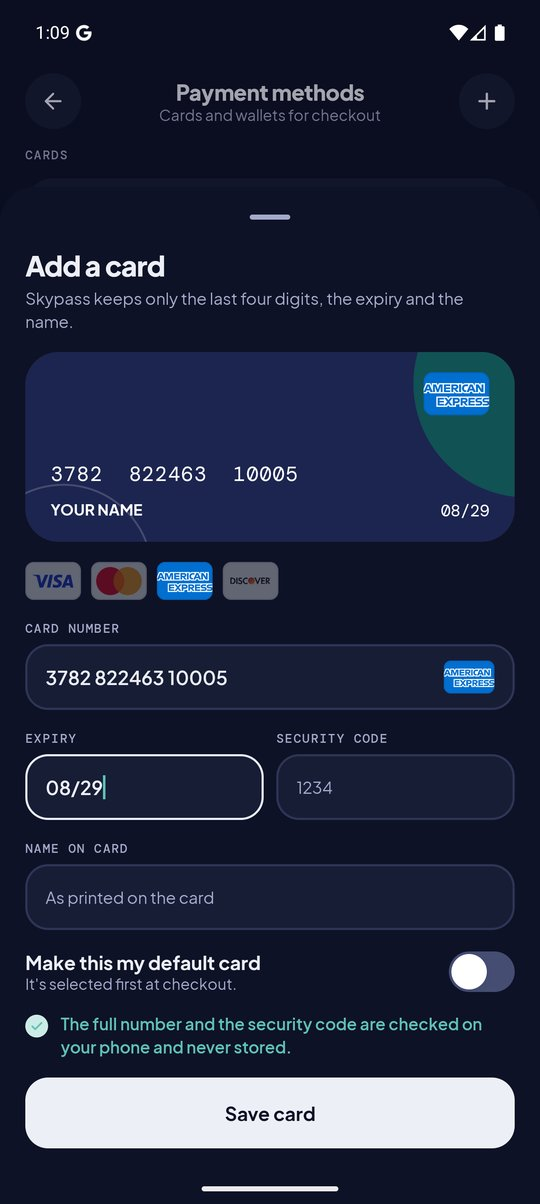
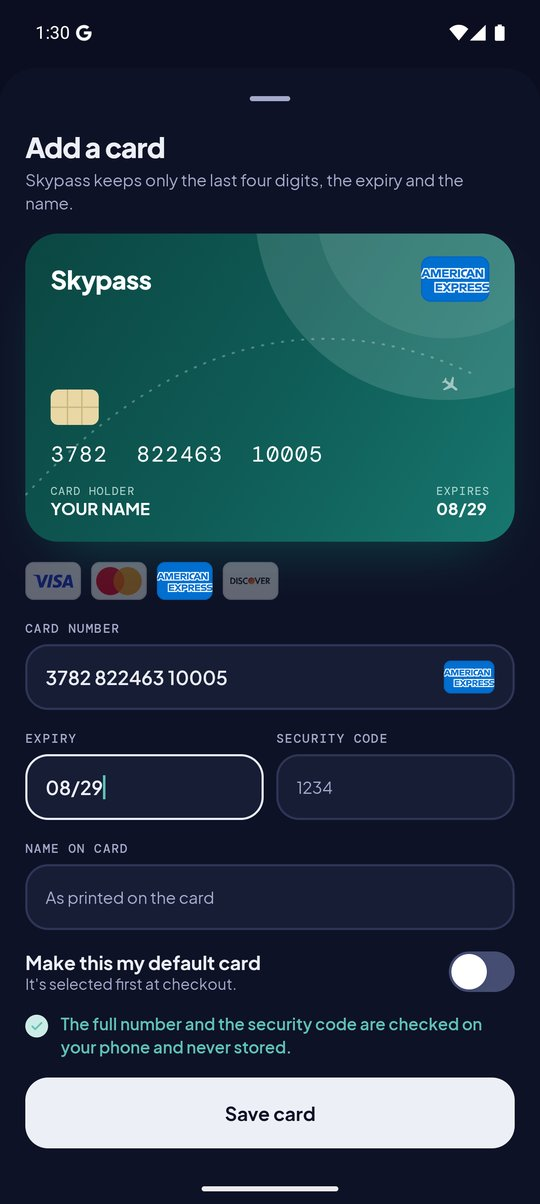
Card design: a Skypass card for Add a card and checkout
The card is now in Skypass colours: a teal gradient with the board's dotted
flight arc and plane, a mint sun off the top edge, a gold chip, the Skypass
wordmark in the top-left corner and the card network's mark in the top-right.
One shared SkypassCardFace (:core:ui) fills in as you type on Add a card and
flips between methods at checkout.

diff --git a/core/ui/src/main/kotlin/com/skypass/core/ui/CardFace.kt b/core/ui/src/main/kotlin/com/skypass/core/ui/CardFace.kt
@@ -1,0 +1,185 @@
+package com.skypass.core.ui
+
+import androidx.compose.animation.AnimatedContent
+import androidx.compose.animation.core.tween
+import androidx.compose.animation.fadeIn
+import androidx.compose.animation.fadeOut
+import androidx.compose.animation.scaleIn
+import androidx.compose.animation.togetherWith
+import androidx.compose.foundation.background
+import androidx.compose.foundation.layout.Arrangement
+import androidx.compose.foundation.layout.Box
+import androidx.compose.foundation.layout.Column
+import androidx.compose.foundation.layout.Row
+import androidx.compose.foundation.layout.Spacer
+import androidx.compose.foundation.layout.aspectRatio
+import androidx.compose.foundation.layout.fillMaxWidth
+import androidx.compose.foundation.layout.height
+import androidx.compose.foundation.layout.padding
+import androidx.compose.foundation.layout.size
+import androidx.compose.foundation.layout.width
+import androidx.compose.foundation.shape.RoundedCornerShape
+import androidx.compose.material3.Icon
+import androidx.compose.material3.Text
+import androidx.compose.runtime.Composable
+import androidx.compose.ui.Alignment
+import androidx.compose.ui.Modifier
+import androidx.compose.ui.draw.clip
+import androidx.compose.ui.draw.drawBehind
+import androidx.compose.ui.draw.rotate
+import androidx.compose.ui.geometry.Offset
+import androidx.compose.ui.graphics.Brush
+import androidx.compose.ui.graphics.Color
+import androidx.compose.ui.graphics.Path
+import androidx.compose.ui.graphics.PathEffect
+import androidx.compose.ui.graphics.StrokeCap
+import androidx.compose.ui.graphics.drawscope.Stroke
+import androidx.compose.ui.res.stringResource
+import androidx.compose.ui.semantics.clearAndSetSemantics
+import androidx.compose.ui.semantics.contentDescription
+import androidx.compose.ui.text.TextStyle
+import androidx.compose.ui.text.font.FontWeight
+import androidx.compose.ui.unit.dp
+import androidx.compose.ui.unit.em
+import androidx.compose.ui.unit.sp
+import com.skypass.core.designsystem.component.PaymentLogo
+import com.skypass.core.designsystem.component.Wordmark
+import com.skypass.core.designsystem.icon.SkypassIcons
+import com.skypass.core.designsystem.theme.DmMono
+import com.skypass.core.designsystem.theme.JakartaSans
+import com.skypass.core.designsystem.theme.Shapes
+import com.skypass.core.designsystem.theme.SoftShadow
+import com.skypass.core.designsystem.theme.softShadow
+import com.skypass.core.model.PaymentMethodType
+
+private val TealDeep = Color(0xFF0B4642)
+private val Teal = Color(0xFF0F5B56)
+private val TealLight = Color(0xFF17776F)
+private val Mint = Color(0xFFCDEBE6)
+private val ChipGold = Color(0xFFE9D8A6)
+private val ChipLine = Color(0xFFC9B47A)
+
+/**
+ * A payment card in Skypass colours: the brand's teal with the board's dotted flight arc and plane
+ * crossing it, the Skypass wordmark in one corner and the card network's mark in the other.
+ * Used on the Add a card form (filling in as you type) and at checkout.
+ *
+ * [network] is null until the first digits say which network it is.
+ */
+@Composable
+fun SkypassCardFace(
+    network: PaymentMethodType?,
+    number: String,
+    holder: String,
+    expiry: String,
+    modifier: Modifier = Modifier,
+) {
+    val holderLabel = stringResource(R.string.card_face_holder)
+    val expiresLabel = stringResource(R.string.card_face_expires)
+    Box(
+        modifier
+            .fillMaxWidth()
+            .aspectRatio(CARD_RATIO)
+            .softShadow(SoftShadow.Brand, Shapes.hero)
+            .clip(Shapes.hero)
+            .background(Brush.linearGradient(listOf(TealDeep, Teal, TealLight)))
+            .drawBehind {
+                // A pale mint sun rising off the top edge.
+                drawCircle(Mint.copy(alpha = 0.16f), radius = size.height * 0.62f, center = Offset(size.width * 0.86f, -size.height * 0.08f))
+                drawCircle(Mint.copy(alpha = 0.10f), radius = size.height * 0.42f, center = Offset(size.width * 0.86f, -size.height * 0.08f))
+                // The board's dotted flight arc, from the bottom-left corner up towards the logo.
+                val arc = Path().apply {
+                    moveTo(-size.width * 0.04f, size.height * 0.92f)
+                    quadraticTo(size.width * 0.42f, size.height * 0.08f, size.width * 0.92f, size.height * 0.46f)
+                }
+                drawPath(
+                    arc,
+                    color = Color.White.copy(alpha = 0.28f),
+                    style = Stroke(
+                        width = 1.6.dp.toPx(),
+                        cap = StrokeCap.Round,
+                        pathEffect = PathEffect.dashPathEffect(floatArrayOf(1.dp.toPx(), 7.dp.toPx())),
+                    ),
+                )
+            }
+            .clearAndSetSemantics {
+                contentDescription = listOfNotNull(network?.name, number.takeLast(4).takeIf { it.all(Char::isDigit) }, holder, expiry).joinToString(", ")
+            }
+            .padding(horizontal = 20.dp, vertical = 18.dp),
+    ) {
+        // Plane at the end of the arc, pointing along it.
+        Icon(
+            SkypassIcons.Plane,
+            contentDescription = null,
+            tint = Color.White.copy(alpha = 0.55f),
+            modifier = Modifier
+                .align(BiasAlignment)
+                .size(16.dp)
+                .rotate(PLANE_ANGLE),
+        )
+        Row(Modifier.fillMaxWidth().align(Alignment.TopStart), verticalAlignment = Alignment.CenterVertically) {
+            Wordmark(size = 20, color = Color.White)
+            Spacer(Modifier.weight(1f))
+            AnimatedContent(
+                targetState = network,
+                transitionSpec = { (fadeIn(tween(200)) + scaleIn(initialScale = 0.85f)) togetherWith fadeOut(tween(120)) },
+                label = "cardNetwork",
+            ) { n ->
+                if (n != null) PaymentLogo(n, width = 54.dp, height = 36.dp) else Spacer(Modifier.height(36.dp))
+            }
+        }
+        Column(Modifier.align(Alignment.BottomStart).fillMaxWidth(), verticalArrangement = Arrangement.spacedBy(12.dp)) {
+            Chip()
+            Text(
+                number,
+                style = TextStyle(fontFamily = DmMono, fontSize = 17.sp, letterSpacing = 0.06.em),
+                color = Color.White,
+                maxLines = 1,
+            )
+            Row(verticalAlignment = Alignment.Bottom) {
+                CardField(holderLabel, holder.uppercase(), Modifier.weight(1f))
+                CardField(expiresLabel, expiry)
+            }
+        }
+    }
+}
+
+/** The gold contact chip, with its etched lines. */
+@Composable
+private fun Chip() {
+    Box(
+        Modifier
+            .width(38.dp)
+            .height(28.dp)
+            .clip(RoundedCornerShape(6.dp))
+            .background(ChipGold)
+            .drawBehind {
+                val stroke = 1.dp.toPx()
+                drawLine(ChipLine, Offset(0f, size.height / 2), Offset(size.width, size.height / 2), stroke)
+                drawLine(ChipLine, Offset(size.width * 0.35f, 0f), Offset(size.width * 0.35f, size.height), stroke)
+                drawLine(ChipLine, Offset(size.width * 0.65f, 0f), Offset(size.width * 0.65f, size.height), stroke)
+            },
+    )
+}
+
+@Composable
+private fun CardField(label: String, value: String, modifier: Modifier = Modifier) {
+    Column(modifier) {
+        Text(
+            label.uppercase(),
+            style = TextStyle(fontFamily = DmMono, fontSize = 9.sp, letterSpacing = 0.08.em),
+            color = Mint.copy(alpha = 0.85f),
+        )
+        Text(
+            value,
+            style = TextStyle(fontFamily = JakartaSans, fontWeight = FontWeight.Bold, fontSize = 13.sp),
+            color = Color.White,
+            maxLines = 1,
+        )
+    }
+}
+
+/** ISO/IEC 7810 ID-1: 85.60 × 53.98 mm. */
+private const val CARD_RATIO = 1.586f
+private const val PLANE_ANGLE = 127f
+private val BiasAlignment = androidx.compose.ui.BiasAlignment(0.86f, -0.02f)

diff --git a/feature/payment/src/main/kotlin/com/skypass/feature/payment/PaymentScreen.kt b/feature/payment/src/main/kotlin/com/skypass/feature/payment/PaymentScreen.kt
@@ -71,6 +71,7 @@ import androidx.compose.ui.unit.sp
 import androidx.hilt.lifecycle.viewmodel.compose.hiltViewModel
 import androidx.lifecycle.compose.collectAsStateWithLifecycle
 import com.skypass.core.ui.AddCardSheet
+import com.skypass.core.ui.SkypassCardFace
 import kotlinx.coroutines.launch
 import androidx.compose.runtime.rememberCoroutineScope
 import com.skypass.core.model.DisplayCurrency
@@ -254,50 +255,16 @@ private fun CardPreview(method: PaymentMethod, modifier: Modifier = Modifier) {
         turn.snapTo(-90f)
         turn.animateTo(0f, tween(260, easing = Motion.EmphasizedDecelerate))
     }
-    Box(
-        modifier
-            .fillMaxWidth()
-            .height(192.dp)
-            .graphicsLayer {
-                rotationY = turn.value
-                cameraDistance = 12 * density
-            }
-            .softShadow(SoftShadow.Float, Shapes.hero)
-            .clip(Shapes.hero)
-            .background(CardNavy)
-            .drawBehind {
-                // Teal disc top-right and a thin ring bottom-left, from the board.
-                drawCircle(CardTeal.copy(alpha = 0.85f), radius = 105.dp.toPx(), center = Offset(size.width + 10.dp.toPx(), 35.dp.toPx()))
-                drawCircle(Color.White.copy(alpha = 0.18f), radius = 80.dp.toPx(), center = Offset(40.dp.toPx(), size.height + 30.dp.toPx()), style = Stroke(1.5.dp.toPx()))
-            }
-            .padding(horizontal = 22.dp, vertical = 20.dp),
-    ) {
-        Row(Modifier.fillMaxWidth(), verticalAlignment = Alignment.CenterVertically) {
-            Text("Skypass", style = TextStyle(fontFamily = JakartaSans, fontWeight = FontWeight.ExtraBold, fontSize = 15.sp, letterSpacing = (-0.02).em), color = Color.White)
-            Spacer(Modifier.weight(1f))
-            PaymentLogo(shown.type, width = 58.dp, height = 38.dp)
-        }
-        Box(Modifier.align(Alignment.CenterStart).offset(y = (-8).dp).size(40.dp, 30.dp).background(PaperGold, RoundedCornerShape(7.dp)))
-        Column(Modifier.align(Alignment.BottomStart).fillMaxWidth(), verticalArrangement = Arrangement.spacedBy(12.dp)) {
-            Text(
-                shown.last4?.let { "••••  ••••  ••••  $it" } ?: shown.label,
-                style = TextStyle(fontFamily = DmMono, fontSize = 17.sp, letterSpacing = 0.06.em),
-                color = Color.White,
-            )
-            Row {
-                CardField(stringResource(R.string.payment_card_holder), shown.holder.uppercase(), Modifier.weight(1f))
-                CardField(stringResource(R.string.payment_expires), shown.expiry ?: "—")
-            }
-        }
-    }
-}
-
-@Composable
-private fun CardField(label: String, value: String, modifier: Modifier = Modifier) {
-    Column(modifier) {
-        Text(label.uppercase(), style = TextStyle(fontFamily = DmMono, fontSize = 9.sp, letterSpacing = 0.08.em), color = Color.White.copy(alpha = 0.75f))
-        Text(value, style = TextStyle(fontFamily = JakartaSans, fontWeight = FontWeight.Bold, fontSize = 13.sp), color = Color.White, maxLines = 1)
-    }
+    SkypassCardFace(
+        network = shown.type,
+        number = shown.last4?.let { "••••  ••••  ••••  $it" } ?: shown.label,
+        holder = shown.holder,
+        expiry = shown.expiry ?: "—",
+        modifier = modifier.graphicsLayer {
+            rotationY = turn.value
+            cameraDistance = 12 * density
+        },
+    )
 }
 
 @Composable

diff --git a/core/ui/src/main/kotlin/com/skypass/core/ui/AddCardSheet.kt b/core/ui/src/main/kotlin/com/skypass/core/ui/AddCardSheet.kt
@@ -240,10 +240,7 @@ fun AddCardSheet(
     }
 }
 
-private val CardNavy = Color(0xFF1C2550)
-private val CardTeal = Color(0xFF0F5B56)
-
-/** A small navy card that fills in as the traveller types. */
+/** The Skypass card, filling in as the traveller types. */
 @Composable
 private fun LiveCard(draft: CardDraft) {
     val brand = draft.brand
@@ -261,36 +258,10 @@ private fun LiveCard(draft: CardDraft) {
             i += g
         }
     }
-    val expiry = draft.expiry.padEnd(4, '•').let { it.take(2) + "/" + it.drop(2) }
-    Box(
-        Modifier
-            .fillMaxWidth()
-            .height(150.dp)
-            .clip(Shapes.hero)
-            .background(CardNavy)
-            .drawBehind {
-                drawCircle(CardTeal.copy(alpha = 0.85f), radius = 90.dp.toPx(), center = Offset(size.width + 10.dp.toPx(), 25.dp.toPx()))
-                drawCircle(Color.White.copy(alpha = 0.18f), radius = 70.dp.toPx(), center = Offset(30.dp.toPx(), size.height + 25.dp.toPx()), style = Stroke(1.5.dp.toPx()))
-            }
-            .padding(horizontal = 20.dp, vertical = 16.dp),
-    ) {
-        Box(Modifier.align(Alignment.TopEnd)) {
-            AnimatedContent(brand, transitionSpec = { (fadeIn(tween(200)) + scaleIn(initialScale = 0.85f)) togetherWith fadeOut(tween(120)) }, label = "liveBrand") { b ->
-                if (b != null) PaymentLogo(b.paymentType, width = 52.dp, height = 34.dp) else Spacer(Modifier.height(34.dp))
-            }
-        }
-        Column(Modifier.align(Alignment.BottomStart).fillMaxWidth(), verticalArrangement = Arrangement.spacedBy(10.dp)) {
-            Text(shownNumber, style = TextStyle(fontFamily = DmMono, fontSize = 16.sp, letterSpacing = 0.04.em), color = Color.White, maxLines = 1)
-            Row {
-                Text(
-                    draft.holder.ifBlank { stringResource(R.string.card_holder_placeholder) }.uppercase(),
-                    style = SkypassTheme.typography.captionStrong.copy(fontWeight = FontWeight.Bold),
-                    color = Color.White,
-                    maxLines = 1,
-                    modifier = Modifier.weight(1f),
-                )
-                Text(expiry, style = TextStyle(fontFamily = DmMono, fontSize = 13.sp), color = Color.White)
-            }
-        }
-    }
+    SkypassCardFace(
+        network = brand?.paymentType,
+        number = shownNumber,
+        holder = draft.holder.ifBlank { stringResource(R.string.card_holder_placeholder) },
+        expiry = draft.expiry.padEnd(4, '•').let { it.take(2) + "/" + it.drop(2) },
+    )
 }
